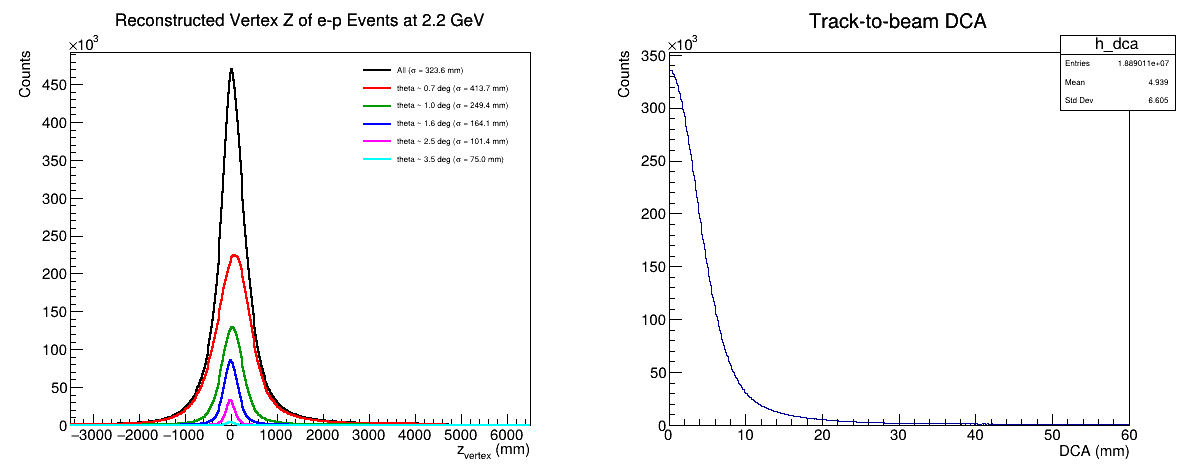
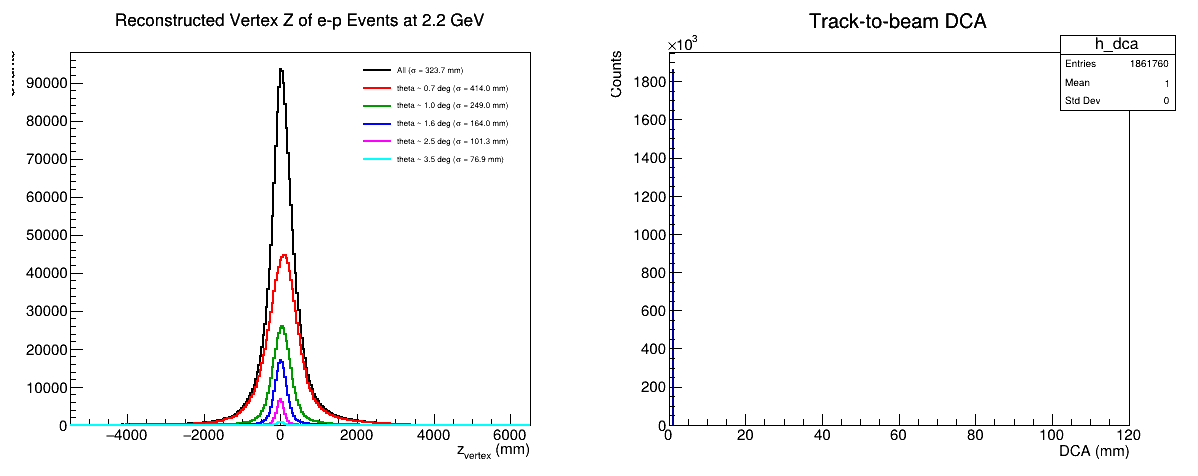
update

diff --git a/ana_test/vertex_recon.C b/ana_test/vertex_recon.C
@@ -34,21 +34,32 @@ void vertex_recon(){
     ReconEventData ev;
     setupReconBranches(tree, ev);
 
-    TH1F *h_vz  = new TH1F("h_vz",  "Reconstructed Vertex Z of e-p Events at 2.2 GeV;z_{vertex} (mm);Counts", 500, -3500, 6500);
-    TH1F *h_dca = new TH1F("h_dca", "Track-to-beam DCA;DCA (mm);Counts", 600, 0, 60);
+    TH1F *h_vz  = new TH1F("h_vz",  "Reconstructed Vertex Z of e-p Events at 2.2 GeV;z_{vertex} (mm);Counts", 300, -5500, 6500);
+    TH1F *h_dca = new TH1F("h_dca", "Track-to-beam DCA;DCA (mm);Counts", 1200, 0, 120);
+    TH2F *h_dca_vs_vz = new TH2F("h_dca_vs_vz", "Track-to-beam DCA vs Vertex Z;z_{vertex} (mm);DCA (mm)", 300, -5500, 6500, 1200, 0, 120);
+
+    TH2F *h_vx_vy = new TH2F("h_vx_vy", "Vertex X vs Vertex Y;x_{vertex} (mm);y_{vertex} (mm)", 500, -50, 50, 500, -50, 50);
 
     float angle_edge[4] = {0.8f, 1.2f, 2.0f, 3.0f};
 
-    TH1F *h_vz_0p7deg = new TH1F("h_vz_0p7deg",  "Vertex Z from closest approach (theta~0.7deg);z_{vtx} (mm);Counts", 500, -3500, 6500);
-    TH1F *h_vz_1p0deg = new TH1F("h_vz_1p0deg",  "Vertex Z from closest approach (theta~1.0deg);z_{vtx} (mm);Counts", 500, -3500, 6500);
-    TH1F *h_vz_1p6deg = new TH1F("h_vz_1p6deg",  "Vertex Z from closest approach (theta~1.6deg);z_{vtx} (mm);Counts", 500, -3500, 6500);
-    TH1F *h_vz_2p5deg = new TH1F("h_vz_2p5deg",  "Vertex Z from closest approach (theta~2.5deg);z_{vtx} (mm);Counts", 500, -3500, 6500);
-    TH1F *h_vz_3p5deg = new TH1F("h_vz_3p5deg",  "Vertex Z from closest approach (theta~3.5deg);z_{vtx} (mm);Counts", 500, -3500, 6500);
+    TH1F *h_vz_0p7deg = new TH1F("h_vz_0p7deg",  "Vertex Z from closest approach (theta~0.7deg);z_{vtx} (mm);Counts", 300, -5500, 6500);
+    TH1F *h_vz_1p0deg = new TH1F("h_vz_1p0deg",  "Vertex Z from closest approach (theta~1.0deg);z_{vtx} (mm);Counts", 300, -5500, 6500);
+    TH1F *h_vz_1p6deg = new TH1F("h_vz_1p6deg",  "Vertex Z from closest approach (theta~1.6deg);z_{vtx} (mm);Counts", 300, -5500, 6500);
+    TH1F *h_vz_2p5deg = new TH1F("h_vz_2p5deg",  "Vertex Z from closest approach (theta~2.5deg);z_{vtx} (mm);Counts", 300, -5500, 6500);
+    TH1F *h_vz_3p5deg = new TH1F("h_vz_3p5deg",  "Vertex Z from closest approach (theta~3.5deg);z_{vtx} (mm);Counts", 300, -5500, 6500);
+
+    TH1F *h_vz_0p7deg_proj = new TH1F("h_vz_0p7deg_proj",  "Vertex Z from projected track (theta~0.7deg);z_{vtx} (mm);Counts", 300, -5500, 6500);
+    TH1F *h_vz_1p0deg_proj = new TH1F("h_vz_1p0deg_proj",  "Vertex Z from projected track (theta~1.0deg);z_{vtx} (mm);Counts", 300, -5500, 6500);
+    TH1F *h_vz_1p6deg_proj = new TH1F("h_vz_1p6deg_proj",  "Vertex Z from projected track (theta~1.6deg);z_{vtx} (mm);Counts", 300, -5500, 6500);
+    TH1F *h_vz_2p5deg_proj = new TH1F("h_vz_2p5deg_proj",  "Vertex Z from projected track (theta~2.5deg);z_{vtx} (mm);Counts", 300, -5500, 6500);
+    TH1F *h_vz_3p5deg_proj = new TH1F("h_vz_3p5deg_proj",  "Vertex Z from projected track (theta~3.5deg);z_{vtx} (mm);Counts", 300, -5500, 6500);
+
+    TH1F *h_phi_diff = new TH1F("h_phi_diff", "Difference in phi between two GEM hits;#Delta#phi (deg);Counts", 600, -30, 30);
 
     TH1F *deltaX_gems = new TH1F("deltaX_gems", "Difference in X between two GEM hits;#DeltaX (mm);Counts", 200, -50, 50);
     TH1F *deltaY_gems = new TH1F("deltaY_gems", "Difference in Y between two GEM hits;#DeltaY (mm);Counts", 200, -50, 50);
 
-    for (Long64_t i = 0; i < tree->GetEntries(); i++) {
+    for (Long64_t i = 0; i < tree->GetEntries()/10; i++) {
         tree->GetEntry(i);
 
         if(i%10000 == 0)
@@ -77,7 +88,7 @@ void vertex_recon(){
         deltaX_gems->Fill(gem1x - gem2x);
         deltaY_gems->Fill(gem1y - gem2y);
 
-        if (std::abs(gem1x - gem2x) > 50.f || std::abs(gem1y - gem2y) > 50.f) continue;
+        if (std::abs(gem1x - gem2x) > 5.f || std::abs(gem1y - gem2y) > 5.f) continue;
 
         float vx = 0.f, vy = 0.f, vz = 0.f;
 
@@ -96,22 +107,49 @@ void vertex_recon(){
         vy = y1 + t * dy;
         vz = z1 + t * dz;
 
-        const float dca = std::sqrt(vx * vx + vy * vy);
+        float dca = std::sqrt(vx * vx + vy * vy);
+        dca = 1.f;
+        if (dca > 40.f) continue;
         h_vz->Fill(vz);
         h_dca->Fill(dca);
+        h_dca_vs_vz->Fill(vz, dca);
+        h_vx_vy->Fill(vx, vy);
 
-        if (theta < angle_edge[0]) {
+        if (theta < angle_edge[0] && dca < 40) {
             h_vz_0p7deg->Fill(vz);
-        } else if (theta >= angle_edge[0] && theta < angle_edge[1]) {
+        } else if (theta >= angle_edge[0] && theta < angle_edge[1] && dca < 30) {
             h_vz_1p0deg->Fill(vz);
-        } else if (theta >= angle_edge[1] && theta < angle_edge[2]) {
+        } else if (theta >= angle_edge[1] && theta < angle_edge[2] && dca < 10) {
             h_vz_1p6deg->Fill(vz);
-        } else if (theta >= angle_edge[2] && theta < angle_edge[3]) {
+        } else if (theta >= angle_edge[2] && theta < angle_edge[3] && dca < 10) {
             h_vz_2p5deg->Fill(vz);
-        } else if (theta >= angle_edge[3]) {
+        } else if (theta >= angle_edge[3] && dca < 10) {
             h_vz_3p5deg->Fill(vz);
         }
 
+        // Fill phi difference histogram
+        float phi1 = atan2(y[1], x[1]) * 180.f / M_PI;
+        float phi2 = atan2(y[2], x[2]) * 180.f / M_PI;
+        float dphi = phi1 - phi2;
+        h_phi_diff->Fill(dphi);
+
+        // radial distance projection to vertex Z recon
+        float r1 = std::sqrt(x[1] * x[1] + y[1] * y[1]);
+        float r2 = std::sqrt(x[2] * x[2] + y[2] * y[2]);
+        
+        float z_proj = (r2 * z[1] - r1 * z[2]) / (r2 - r1);
+
+        if(theta < angle_edge[0]) {
+            h_vz_0p7deg_proj->Fill(z_proj);
+        } else if (theta >= angle_edge[0] && theta < angle_edge[1]) {
+            h_vz_1p0deg_proj->Fill(z_proj);
+        } else if (theta >= angle_edge[1] && theta < angle_edge[2]) {
+            h_vz_1p6deg_proj->Fill(z_proj);
+        } else if (theta >= angle_edge[2] && theta < angle_edge[3]) {
+            h_vz_2p5deg_proj->Fill(z_proj);
+        } else if (theta >= angle_edge[3]) {
+            h_vz_3p5deg_proj->Fill(z_proj);
+        }
     }
 
     TCanvas *c = new TCanvas("c_vertex", "Vertex reconstruction", 1200, 500);
@@ -162,4 +200,62 @@ void vertex_recon(){
     c_gems->cd(1); deltaX_gems->Draw();
     c_gems->cd(2); deltaY_gems->Draw();
 
+    TCanvas *c_dca_vs_vz = new TCanvas("c_dca_vs_vz", "DCA vs Vertex Z", 1200, 500);
+    h_dca_vs_vz->Draw();
+    c_dca_vs_vz->SaveAs("dca_vs_vz.png");
+
+    TCanvas *c_vx_vy = new TCanvas("c_vx_vy", "Vertex X vs Vertex Y", 1200, 500);
+    h_vx_vy->Draw("COLZ");
+    c_vx_vy->SaveAs("vx_vs_vy.png");
+
+    // Compare the two vertex-Z reconstruction methods in each angle range.
+    TH1F *h_vz_closest[5] = {
+        h_vz_0p7deg, h_vz_1p0deg, h_vz_1p6deg,
+        h_vz_2p5deg, h_vz_3p5deg
+    };
+    TH1F *h_vz_projected[5] = {
+        h_vz_0p7deg_proj, h_vz_1p0deg_proj, h_vz_1p6deg_proj,
+        h_vz_2p5deg_proj, h_vz_3p5deg_proj
+    };
+    const char *angle_label[5] = {
+        "#theta < 0.8 deg", "0.8 #leq #theta < 1.2 deg",
+        "1.2 #leq #theta < 2.0 deg", "2.0 #leq #theta < 3.0 deg",
+        "#theta #geq 3.0 deg"
+    };
+    const char *angle_tag[5] = {"0p7", "1p0", "1p6", "2p5", "3p5"};
+
+    for (int i = 0; i < 5; ++i) {
+        TCanvas *c_compare = new TCanvas(
+            Form("c_vz_compare_%s", angle_tag[i]),
+            Form("Vertex Z comparison, %s", angle_label[i]), 900, 650);
+
+        h_vz_closest[i]->SetTitle(
+            Form("Vertex Z comparison (%s);z_{vtx} (mm);Counts", angle_label[i]));
+        h_vz_closest[i]->SetStats(0);
+        h_vz_projected[i]->SetStats(0);
+        h_vz_closest[i]->SetLineColor(kBlue + 1);
+        h_vz_projected[i]->SetLineColor(kRed + 1);
+        h_vz_closest[i]->SetLineWidth(2);
+        h_vz_projected[i]->SetLineWidth(2);
+        const double max_count = h_vz_closest[i]->GetMaximum() >
+                                 h_vz_projected[i]->GetMaximum()
+                               ? h_vz_closest[i]->GetMaximum()
+                               : h_vz_projected[i]->GetMaximum();
+        if (max_count > 0.) h_vz_closest[i]->SetMaximum(1.15 * max_count);
+
+        h_vz_closest[i]->Draw("HIST");
+        h_vz_projected[i]->Draw("HIST SAME");
+
+        TLegend *leg_compare = new TLegend(0.61, 0.75, 0.88, 0.88);
+        leg_compare->SetBorderSize(0);
+        leg_compare->AddEntry(h_vz_closest[i], "Closest approach", "l");
+        leg_compare->AddEntry(h_vz_projected[i], "Projected track", "l");
+        leg_compare->Draw();
+
+        c_compare->SaveAs(Form("vertex_z_compare_%sdeg.png", angle_tag[i]));
+    }
+
+    TCanvas *c_phi_diff = new TCanvas("c_phi_diff", "Phi Difference", 1200, 500);
+    h_phi_diff->Draw();
+    c_phi_diff->SaveAs("phi_diff.png");
 }

diff --git a/emptyTarget/background.C b/emptyTarget/background.C
@@ -75,8 +75,8 @@ static void fillHists(const std::vector<TString> &fnames,
 
         if(mollerData_event.size() > 1) {
             auto getPt = [](const MollerEvent &mev) -> float {
-                float sin_t1 = sqrt(mev.first.x*mev.first.x + mev.first.y*mev.first.y) / mev.first.z;
-                float sin_t2 = sqrt(mev.second.x*mev.second.x + mev.second.y*mev.second.y) / mev.second.z;
+                float sin_t1 = sqrt(mev.first.x*mev.first.x + mev.first.y*mev.first.y) / std::sqrt(mev.first.z*mev.first.z + mev.first.x*mev.first.x + mev.first.y*mev.first.y);
+                float sin_t2 = sqrt(mev.second.x*mev.second.x + mev.second.y*mev.second.y) / std::sqrt(mev.second.z*mev.second.z + mev.second.x*mev.second.x + mev.second.y*mev.second.y);
                 return fabs(mev.first.E * sin_t1 - mev.second.E * sin_t2);
             };
             auto best = std::min_element(mollerData_event.begin(), mollerData_event.end(),

diff --git a/emptyTarget/background_gem.C b/emptyTarget/background_gem.C
@@ -123,8 +123,8 @@ static void fillHists(const std::vector<TString> &fnames,
 
         if(mollerData_event.size() > 1) {
             auto getPt = [](const MollerEvent &mev) -> float {
-                float sin_t1 = sqrt(mev.first.x*mev.first.x + mev.first.y*mev.first.y) / mev.first.z;
-                float sin_t2 = sqrt(mev.second.x*mev.second.x + mev.second.y*mev.second.y) / mev.second.z;
+                float sin_t1 = sqrt(mev.first.x*mev.first.x + mev.first.y*mev.first.y) / std::sqrt(mev.first.z*mev.first.z + mev.first.x*mev.first.x + mev.first.y*mev.first.y);
+                float sin_t2 = sqrt(mev.second.x*mev.second.x + mev.second.y*mev.second.y) / std::sqrt(mev.second.z*mev.second.z + mev.second.x*mev.second.x + mev.second.y*mev.second.y);
                 return fabs(mev.first.E * sin_t1 - mev.second.E * sin_t2);
             };
             auto best = std::min_element(mollerData_event.begin(), mollerData_event.end(),